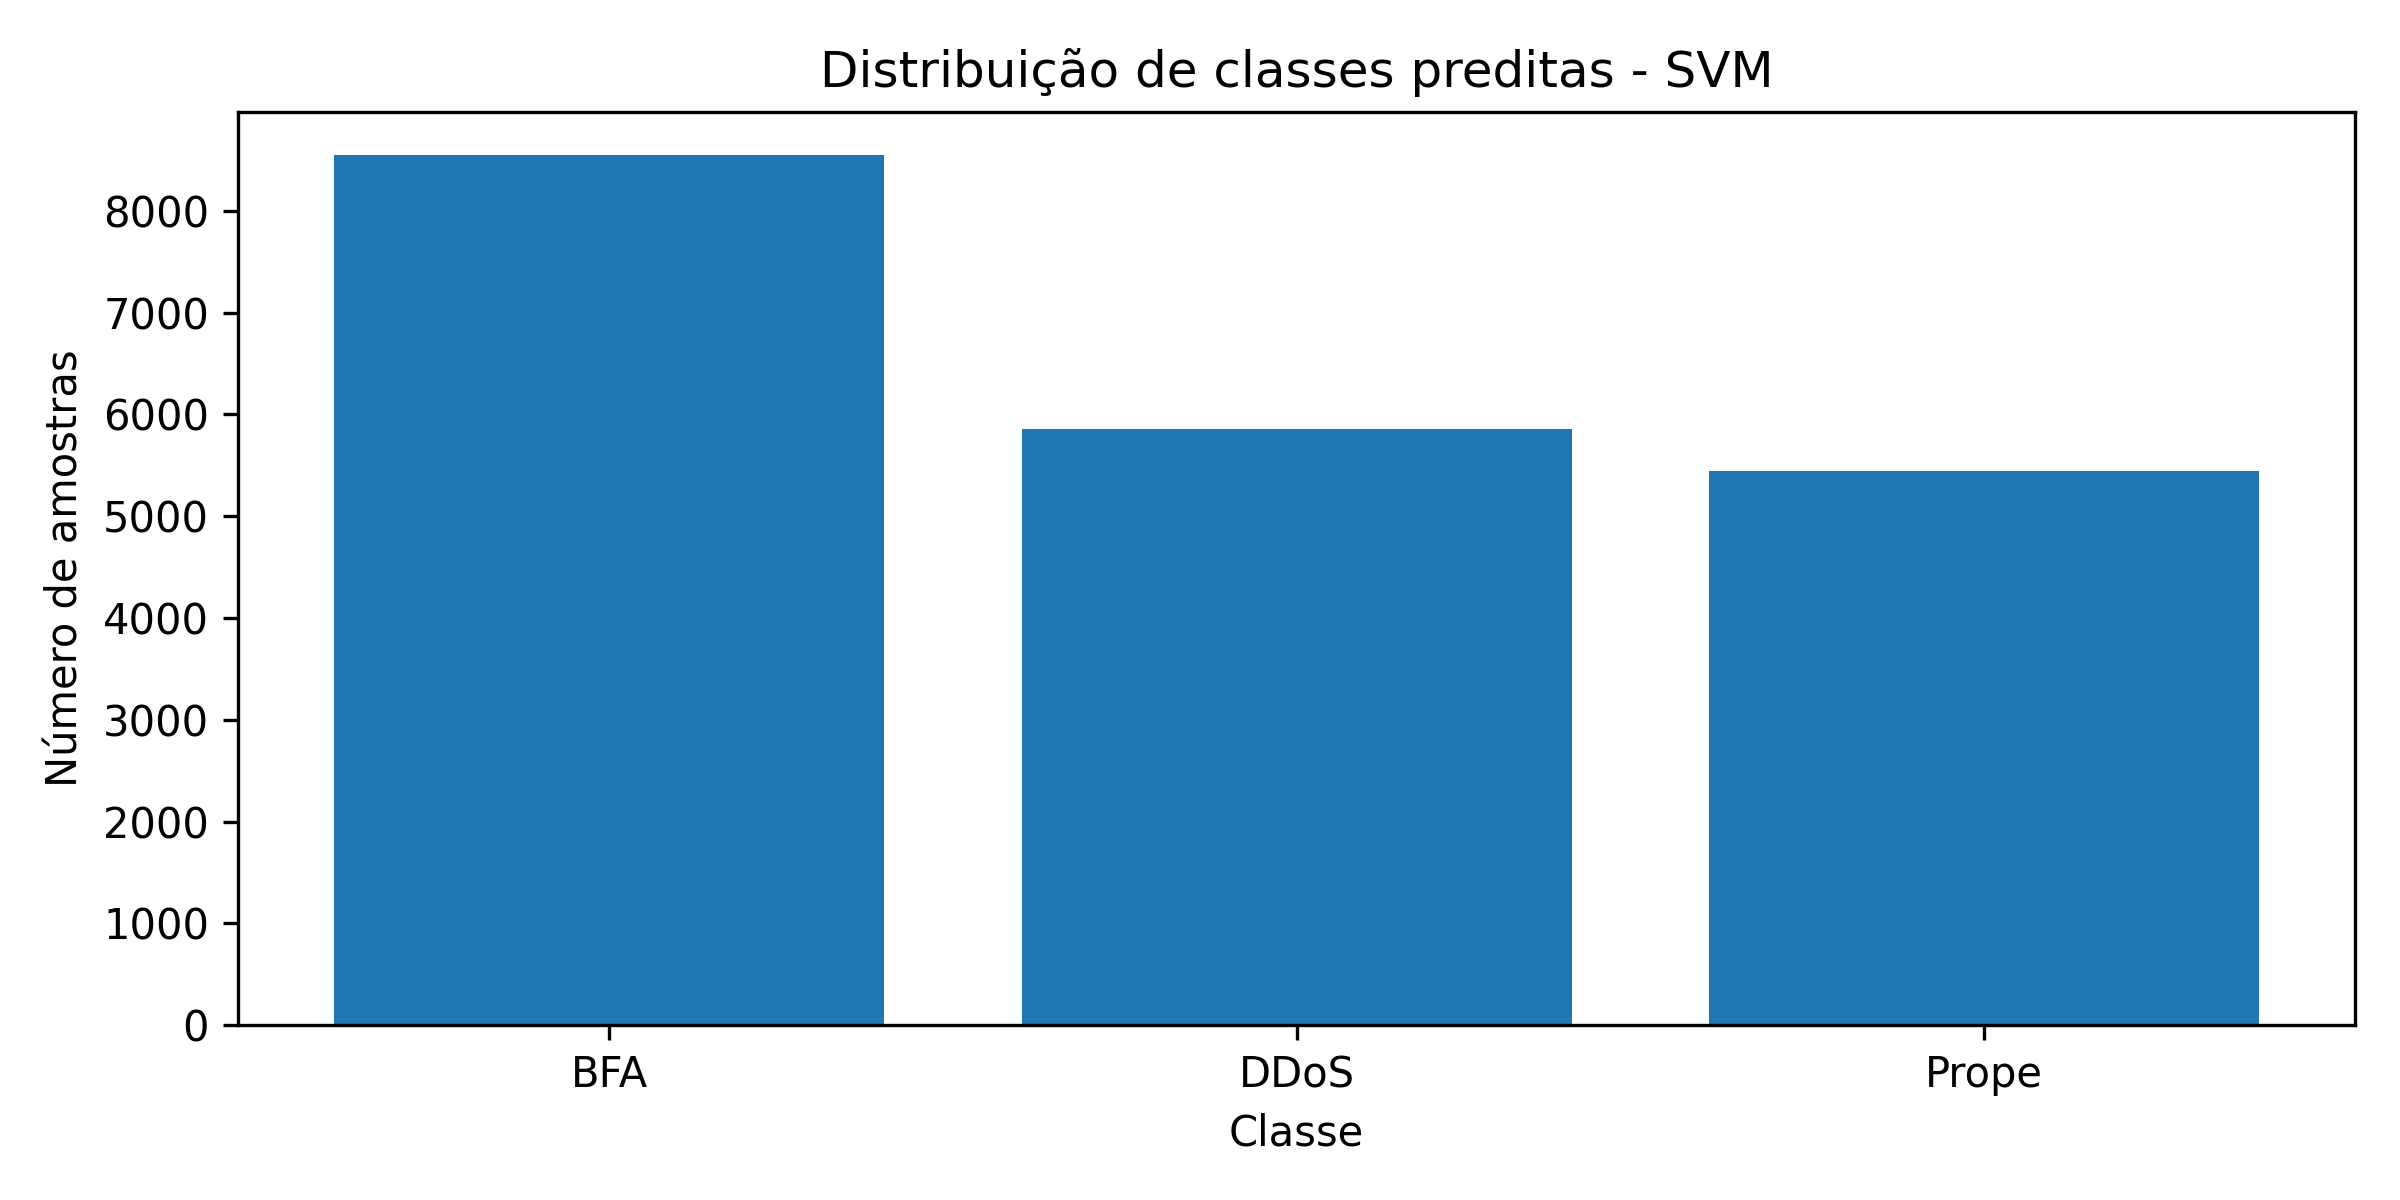
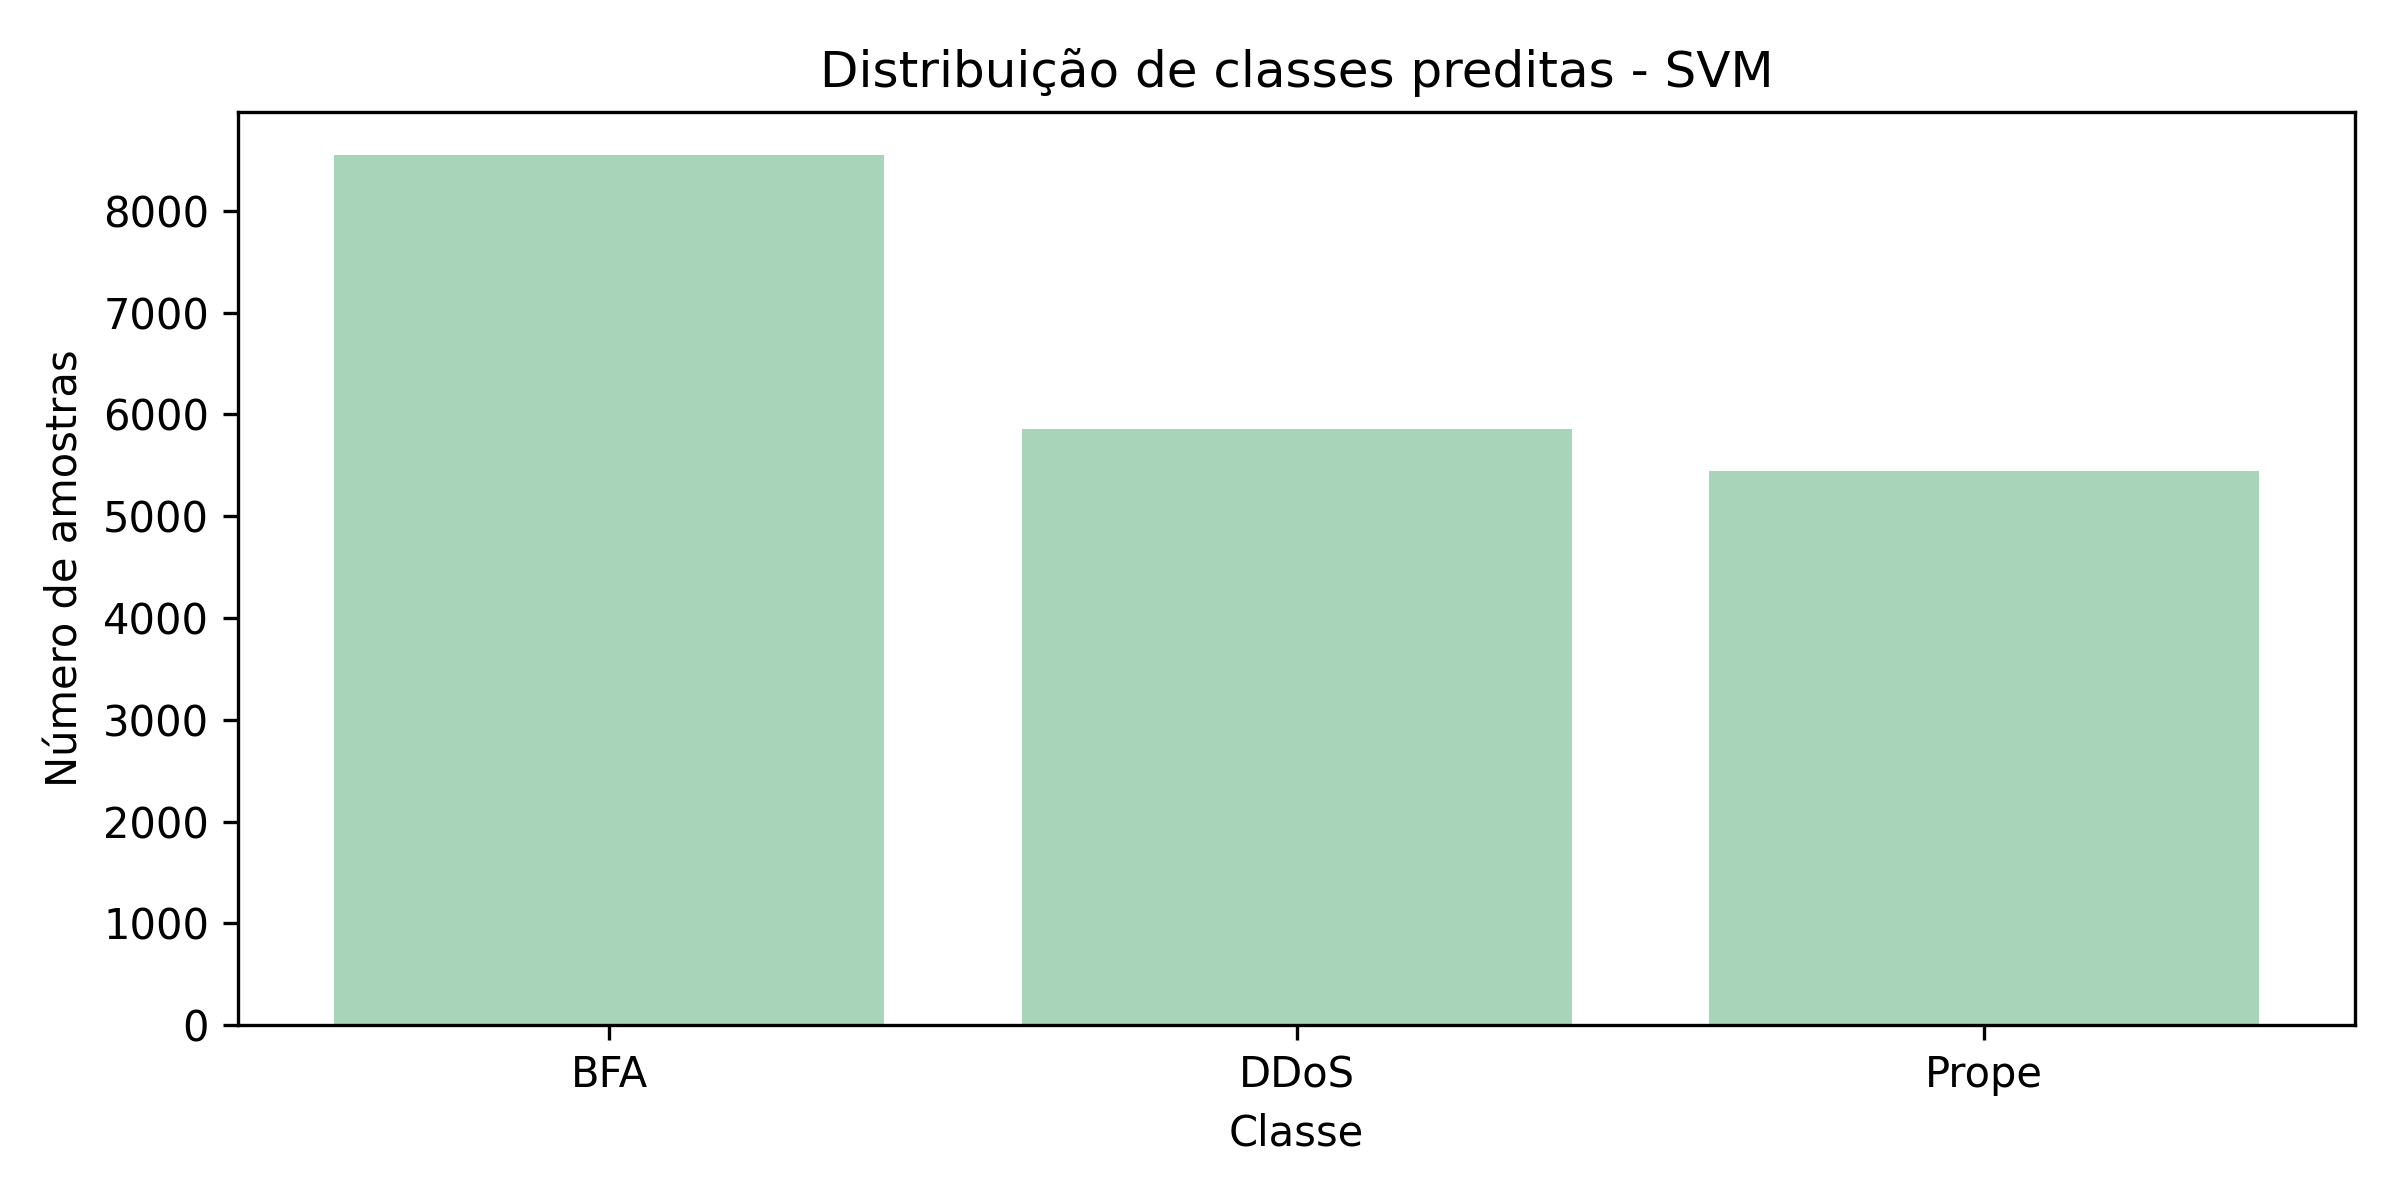
Changed graphs bar colors and accuracy graphs size for better readability

diff --git a/ids-wisard/experiment.py b/ids-wisard/experiment.py
@@ -41,8 +41,18 @@ def save_prediction_distribution_plot(y_pred_enc, label_encoder, model_name,
     labels = label_encoder.inverse_transform(y_pred_enc)
     counts = pd.Series(labels).value_counts().sort_index()
 
+    color_map = {
+        "WiSARD": "#4C72B0",         
+        "Random Forest": "#9DB4E0",  
+        "KNN": "#55A868",            
+        "SVM": "#A8D5BA",             
+    }
+
+    bar_color = color_map.get(model_name, "#999999")
+
     plt.figure(figsize=(8, 4))
-    plt.bar(counts.index, counts.values)
+    plt.bar(counts.index, counts.values, color=bar_color)
+
     plt.title(f"Distribuição de classes preditas - {model_name}")
     plt.xlabel("Classe")
     plt.ylabel("Número de amostras")
@@ -97,7 +107,7 @@ def save_wisardaccuracycurves(results_wisard, output_dir="results/plots"):
     bits = sorted({r["n_bits"] for r in results_wisard})
     tuples = sorted({r["tuple_size"] for r in results_wisard})
 
-    plt.figure()
+    plt.figure(figsize=(12, 4))
     for b in bits:
         xs, ys = [], []
         for t in tuples:
@@ -145,7 +155,7 @@ def save_wisardaccuracycurves_filtered_bits(
 
     tuples = sorted({r["tuple_size"] for r in results_wisard})
 
-    plt.figure()
+    plt.figure(figsize=(12, 4))
 
     for b in bits:
         xs, ys = [], []
@@ -195,7 +205,7 @@ def save_wisardaccuracycurves_swapped(results_wisard, output_dir="results/plots"
     if t in allowed_tuples
     )
 
-    plt.figure()
+    plt.figure(figsize=(12, 4))
 
     for t in tuples:
         xs, ys = [], []
@@ -416,6 +426,63 @@ def save_combined_prediction_histogram(
 
     print(f"Histograma comparativo salvo em: {out_path}")
 
+def save_model_accuracy_comparison(
+    acc_wisard,
+    acc_rf,
+    acc_knn,
+    acc_svm,
+    output_dir="results/plots"
+):
+    """
+    Histograma comparativo de acurácia entre modelos.
+    Eixo X: Modelo
+    Eixo Y: Acurácia (%)
+    """
+    import os
+    import matplotlib.pyplot as plt
+
+    os.makedirs(output_dir, exist_ok=True)
+
+    models = ["WiSARD", "Random Forest", "KNN", "SVM"]
+    accuracies = [
+        acc_wisard * 100.0,
+        acc_rf * 100.0,
+        acc_knn * 100.0,
+        acc_svm * 100.0,
+    ]
+
+    colors = [
+        "#4C72B0",  
+        "#9DB4E0", 
+        "#55A868",  
+        "#A8D5BA",  
+    ]
+
+    plt.figure(figsize=(7, 4))
+    bars = plt.bar(models, accuracies, color=colors)
+
+    plt.ylabel("Acurácia (%)")
+    plt.xlabel("Modelo")
+    plt.title("Comparação de Acurácia entre Modelos")
+
+    for bar, acc in zip(bars, accuracies):
+        plt.text(
+            bar.get_x() + bar.get_width() / 2,
+            bar.get_height() + 0.5,
+            f"{acc:.2f}%",
+            ha="center",
+            va="bottom",
+            fontsize=9
+        )
+
+    plt.ylim(0, 105)
+    plt.tight_layout()
+
+    out_path = os.path.join(output_dir, "model_accuracy_comparison.png")
+    plt.savefig(out_path, dpi=300)
+    plt.close()
+
+    print(f"Histograma comparativo de acurácia salvo em: {out_path}")
 
 def main():
     print("Carregamento do dataset IoT-SDN IDS")
@@ -521,7 +588,11 @@ def main():
     print(f"SVM (Linear):  {acc_svm * 100:.2f}%")
     print(f"KNN:           {acc_knn * 100:.2f}%")
 
-    #save_wisard_prediction_csvs(X_test_df, y_test, best_y_pred_enc, label_encoder)
+    save_model_accuracy_comparison(
+    best_acc,
+    acc_rf,
+    acc_knn,
+    acc_svm)
 
     save_prediction_distribution_plot(best_y_pred_enc, label_encoder, "WiSARD")
     save_prediction_distribution_plot(y_pred_rf, label_encoder, "Random Forest")
@@ -532,7 +603,6 @@ def main():
     save_wisardaccuracycurves(results_wisard)
     save_wisardaccuracycurves_swapped(results_wisard)
     save_wisardaccuracycurves_filtered_bits(results_wisard)
-
 
     print("\nGerando matrizes de confusão...")
 
